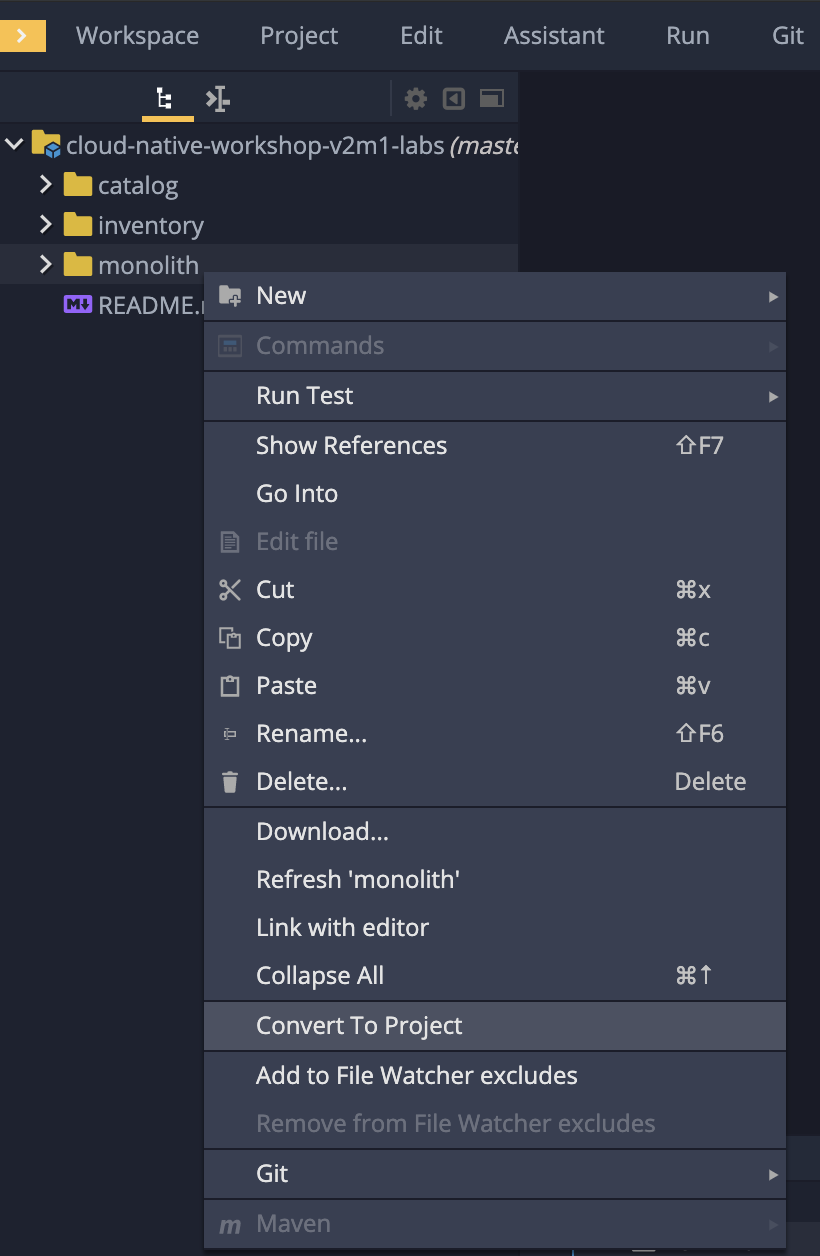
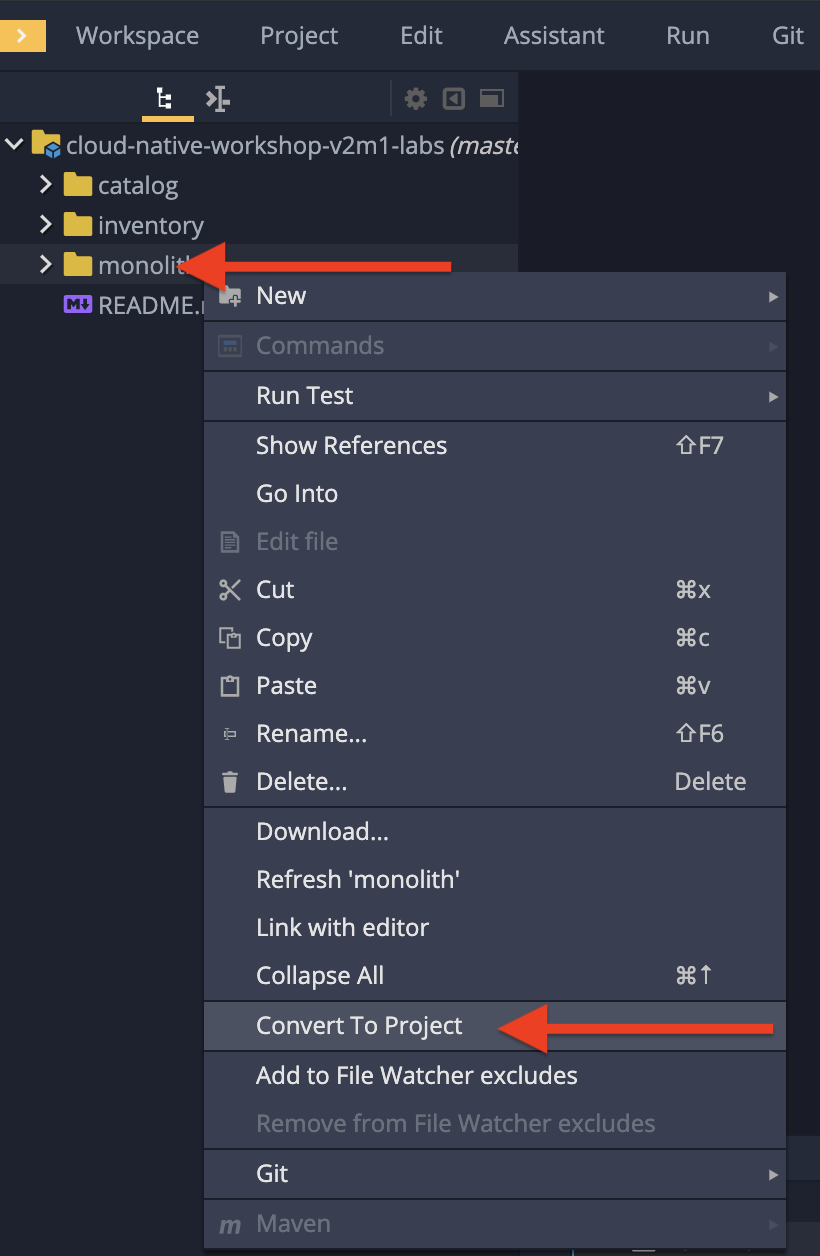
a few improvements

Changed region(s): [[0.6098, 0.7763, 0.9451, 0.8384], [0.2134, 0.1863, 0.5488, 0.2484]]

diff --git a/getting-started-service-mesh.md b/getting-started-service-mesh.md
@@ -110,6 +110,10 @@ We will use these in future steps in this scenario!
 
 #### Getting Ready for the labs
 
+> **NOTE**
+>
+> If you've already completed the **Optimizing Existing Applications** module then you will simply need to import the code for this module. Skip down to the **Import Projects** section.
+
 ---
 
 ##### If this is the first module you are doing today
@@ -145,8 +149,6 @@ Click on the **Import Projects...** in **Workspace** menu and enter the followin
   * Check `Import recursively (for multi-module projects)`
   * Name: `cloud-native-workshop-v2m3-labs`
 
-**Tip**: You can also find your Git URL when you click on [GIT URL]({{GIT_URL}}){:target="_blank"} then login with your credentials.
-
 ![codeready-workspace-import]({% image_path codeready-workspace-import.png %}){:width="700px"}
 
 The project will be imported into your workspace and visible in the project explorer.
@@ -157,11 +159,10 @@ then click on **Convert to Project** continuously.
 
 > **NOTE**
 >
-> **If you do not see the _Convert to Project_** menu item, your projects may already be converted! Look for a small blue Maven icon next to the `catalog` and `inventory` project names. If you see these, you do not need to convert the projects!
->
-> ![maven-icon]({% image_path maven-icon.png %}){:width="900px"}
+> If you do not see the `Convert to Project` then your projects are already converted, and you should see a small icon next to each project:
+> ![codeready-workspace-convert]({% image_path maven-icon.png %}){:width="600px"}
 
-If you need to convert, do it like this:
+If not, then convert them:
 
 ![codeready-workspace-convert]({% image_path codeready-workspace-convert.png %}){:width="500px"}
 
@@ -169,8 +170,9 @@ Choose **Maven** from the project configurations and then click on **Save**.
 
 ![codeready-workspace-maven]({% image_path codeready-workspace-maven.png %}){:width="700px"}
 
-Repeat the above for inventory and catalog projects.
+Repeat the above for `inventory` and `catalog` projects.
 
 > NOTE: For the rest of these labs, anytime you need to run a command in a terminal, you can use the CodeReady Workspaces Terminal window. Be sure you're in the correct directory for the command(s) you wish to run!
 
 ![codeready-workspace-terminal]({% image_path codeready-workspace-terminal.png %})
+

diff --git a/advanced-service-mesh-dev.md b/advanced-service-mesh-dev.md
@@ -6,7 +6,7 @@ In this lab, you will use advanced service mesh features such as **Fault Injecti
 
 If you have already deployed the _inventory_ and _catalog_ microservices from Module 1, you can skip this step!
 
-If you haven't done Module 1 or Module 2 today, you should deploy the application by executing the following shell script in CodeReady Workspaces Terminal:
+If you haven't done Module 1 or Module 2 today, **or you didn't quite complete them**, you should deploy the coolstore application and microservices by executing the following shell scripts in CodeReady Workspaces Terminal:
 
 > Replace `userXX` with your username before running these commands:
 
